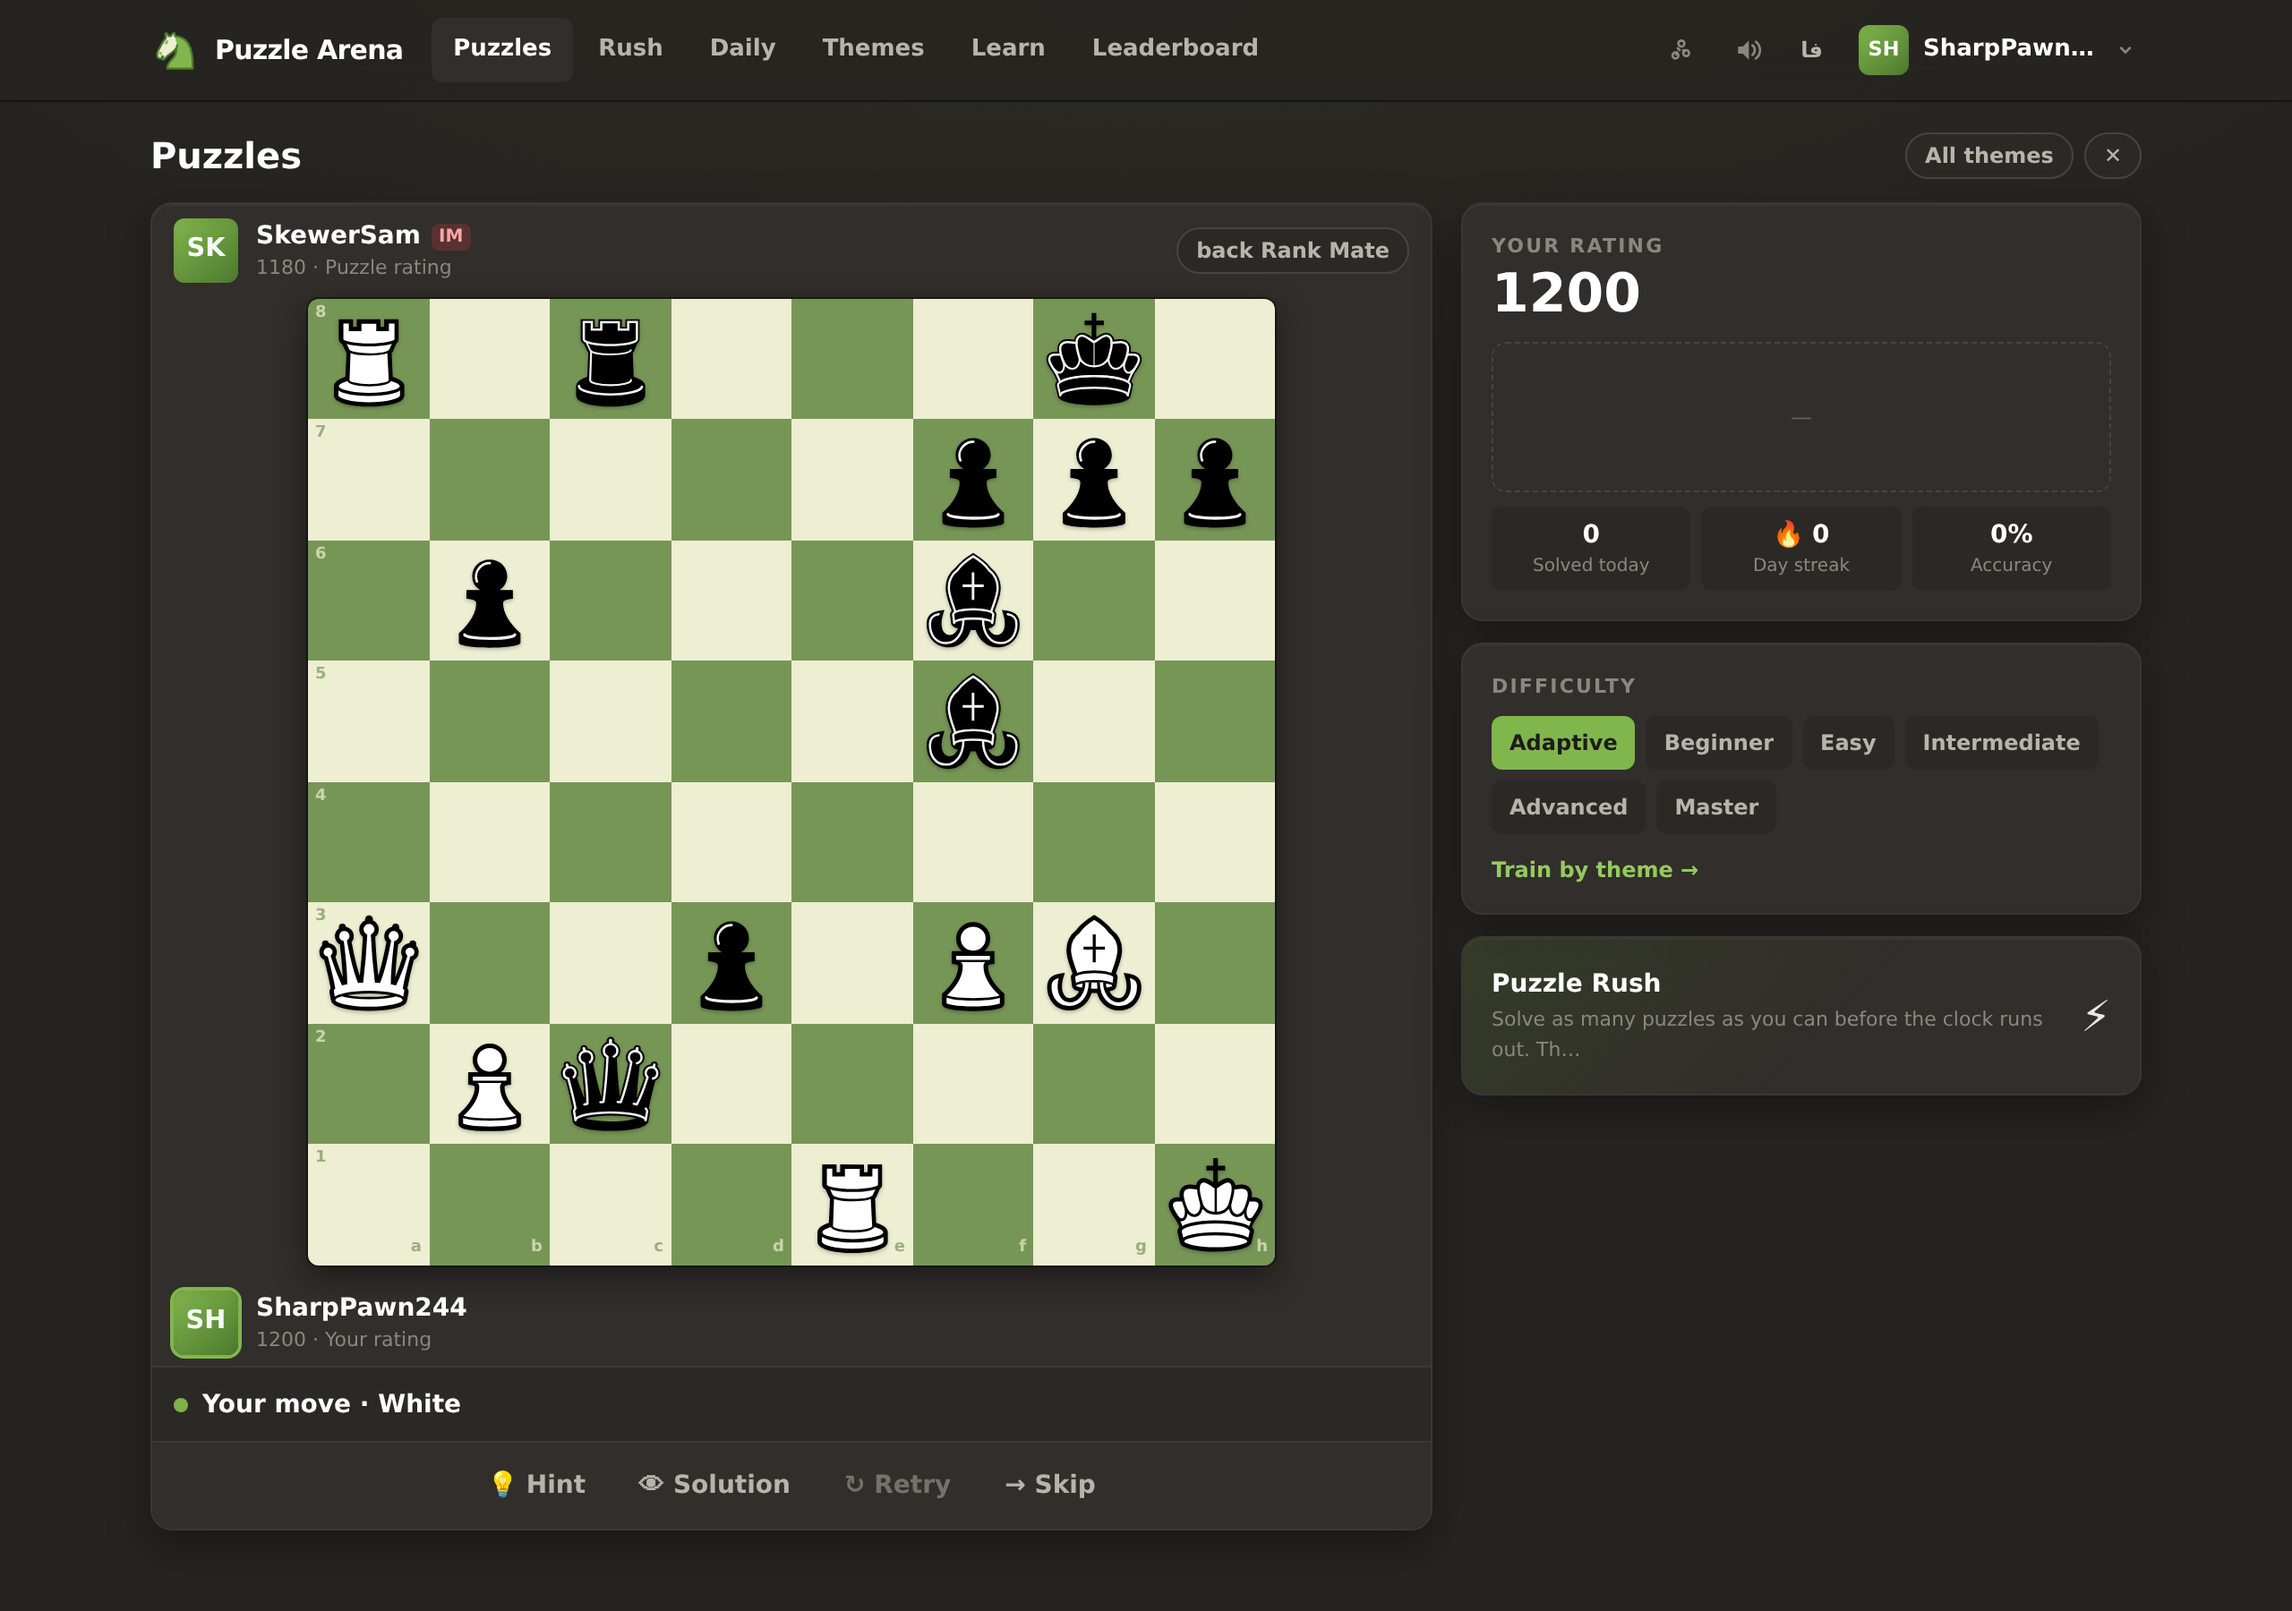
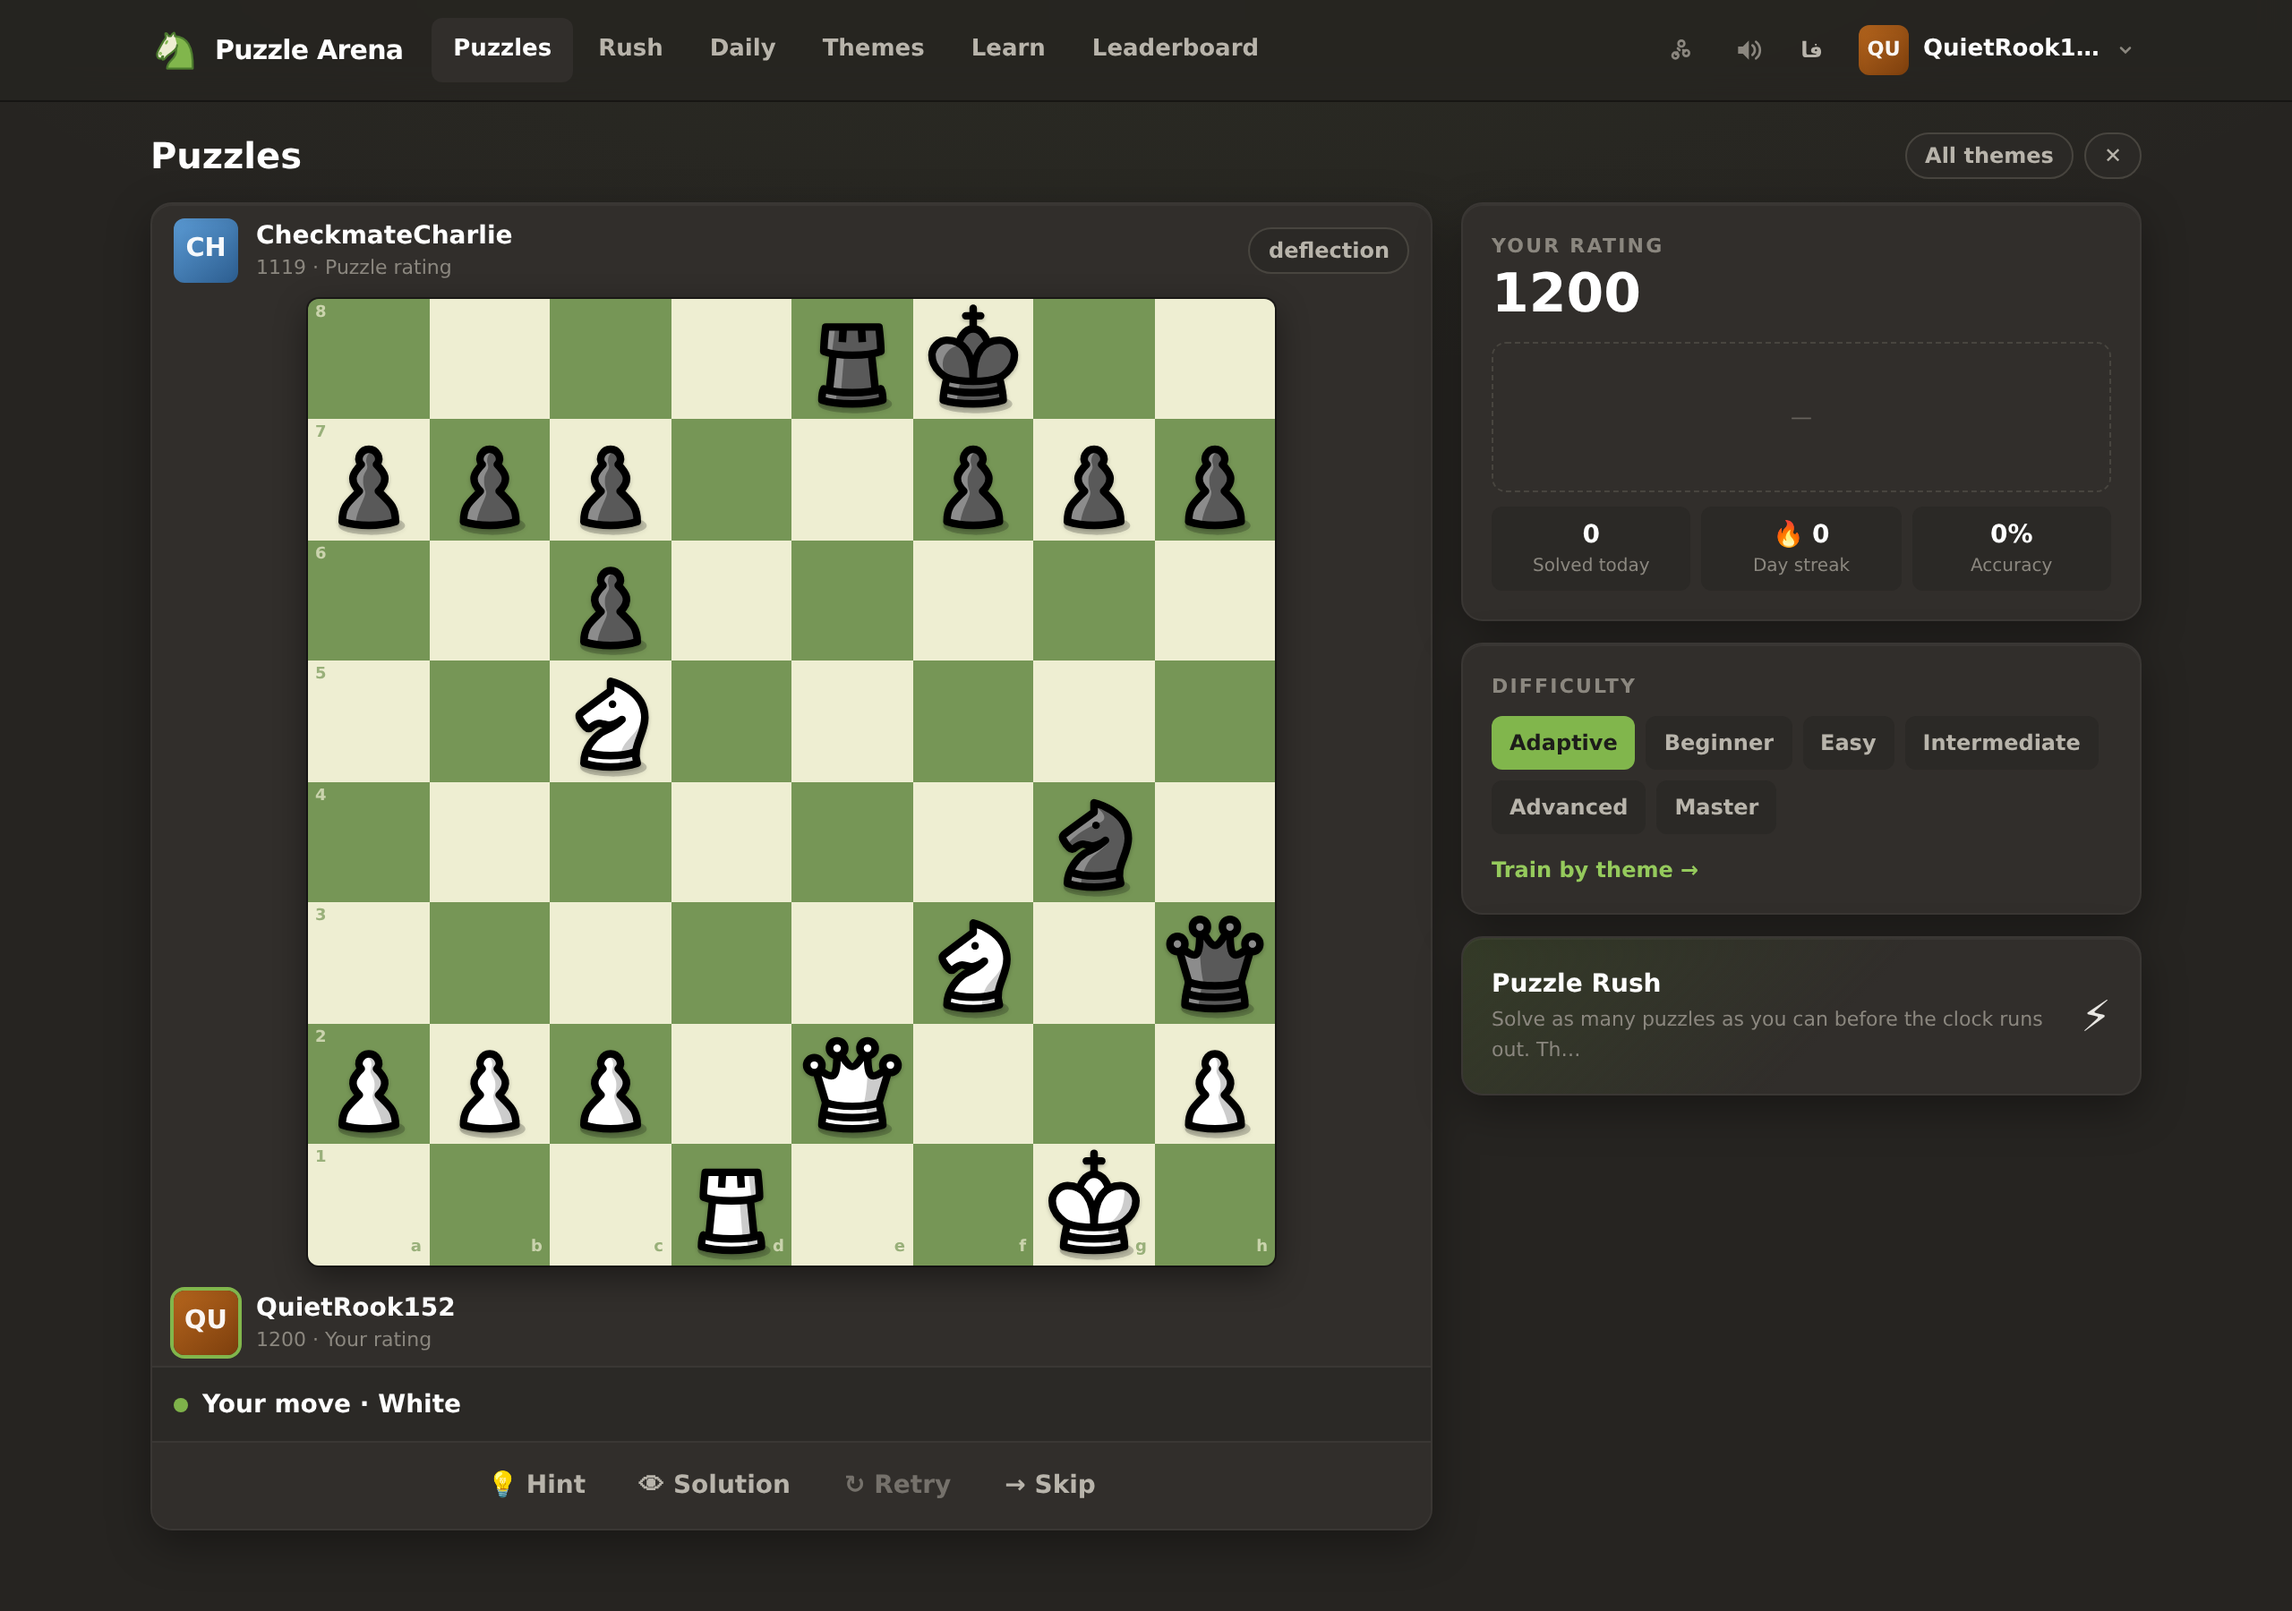
style(pieces): default to the glossy 3D 'caliente' set
- matches the requested look: soft-shaded black/white pieces with rounded
  silhouettes, cross-crowned king with eye cut-outs, 5-ball queen
- palette menu now offers Glossy (default), Flat, Minimal and Sharp
- README + LICENSE attribution updated (caliente is CC BY-NC-SA 4.0)

diff --git a/client/src/lib/pieceSet.tsx b/client/src/lib/pieceSet.tsx
@@ -9,7 +9,8 @@ export interface PieceSet {
 
 /** All bundled sets live in `public/pieces/<id>/`. */
 export const PIECE_SETS: PieceSet[] = [
-  { id: 'chessnut', name: 'Modern', hint: 'Rounded, flat — the default', license: 'Apache 2.0' },
+  { id: 'caliente', name: 'Glossy', hint: 'Soft 3D shading — the default', license: 'CC BY-NC-SA 4.0' },
+  { id: 'chessnut', name: 'Flat', hint: 'Rounded, flat and bold', license: 'Apache 2.0' },
   { id: 'kiwen-suwi', name: 'Minimal', hint: 'Single-stroke silhouettes', license: 'CC BY 4.0' },
   { id: 'spatial', name: 'Sharp', hint: 'Thin geometric line art', license: 'MIT' },
 ];

diff --git a/README.md b/README.md
@@ -24,7 +24,7 @@ Lichess puzzle database (CC0) are bundled, so it works out of the box.
 | 💡 **Progressive hints** | Hint 1 → which piece, hint 2 → the square it stands on, hint 3 → the full move (arrow). |
 | 👤 **Accounts or guests** | JWT auth with bcrypt, or instant guest play — both are rated and tracked. |
 | 🌍 **Bilingual UI** | English and Persian (فارسی) with full RTL layout support. |
-| 🎨 **3 piece styles** | Modern (chessnut), Minimal (kiwen-suwi) and Sharp (spatial) — switchable from the header, remembered locally. |
+| 🎨 **4 piece styles** | Glossy (caliente, default), Flat (chessnut), Minimal (kiwen-suwi) and Sharp (spatial) — switchable from the palette menu in the header and remembered locally. |
 | 🔊 **Sound effects** | Tiny WebAudio synth (move, capture, check, success, fail) — no audio assets. |
 | 📱 **Responsive** | Drag & drop or click-to-move, touch friendly, board scales to the viewport. |
 | 🚀 **One-command deploy** | Express serves the built SPA, or ship the client to GitHub Pages. |
@@ -70,7 +70,7 @@ DB_FILE=./data/app.db
 ```
 chess-puzzle-arena/
 ├── client/                    # React 19 + Vite + Tailwind
-│   ├── public/pieces/         # 3 SVG piece sets (Apache-2.0 / CC BY 4.0 / MIT)
+│   ├── public/pieces/         # 4 switchable SVG piece sets
 │   └── src/
 │       ├── components/        # Board, PuzzleBoard, Navbar, AuthModal, charts…
 │       ├── hooks/usePuzzle.ts # the puzzle state machine (moves, hints, solution, retry)
@@ -177,6 +177,7 @@ cloudflared tunnel --url http://localhost:3001
 
 * Code: MIT (see `LICENSE`)
 * Puzzles: [Lichess puzzle database](https://database.lichess.org/#puzzles) — CC0
-* Piece artwork: “chessnut” by Alexis Luengas (Apache-2.0), “kiwen-suwi” by neverRare (CC BY 4.0),
-  “spatial” by Maurizio Monge (MIT) — users pick their style from the palette menu in the header.
+* Piece artwork: “caliente” by avi (CC BY-NC-SA 4.0), “chessnut” by Alexis Luengas (Apache-2.0),
+  “kiwen-suwi” by neverRare (CC BY 4.0), “spatial” by Maurizio Monge (MIT) — users pick their style
+  from the palette menu in the header. Note the default set is non-commercial (CC BY-NC-SA).
 * Not affiliated with Chess.com or Lichess.
